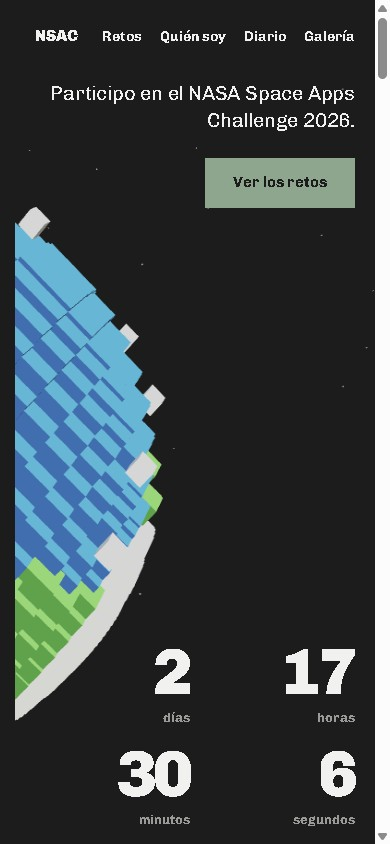
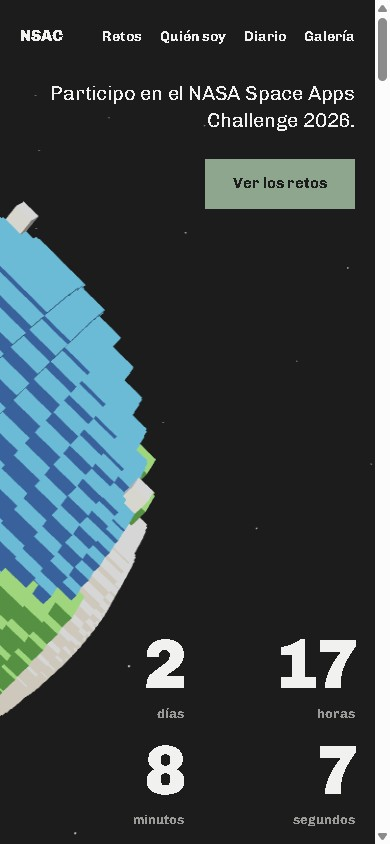
diario: credencial de astronauta generada en la web del evento
Generated with [Devin](https://devin.ai)

diff --git a/docs/log/2026-11-11.md b/docs/log/2026-11-11.md
@@ -40,3 +40,20 @@ tags: [log]
   `twitter:image` con la foto del mural. Primer intento duplicó el
   baseurl (`/NSAC/NSAC/…`) porque `absolute_url` ya lo incluye; se
   resolvió con `site.url | append:` (commit `4a9dd13`).
+
+## Post: credencial del evento
+
+- El usuario compartió su credencial generada en
+  `spaceappssantacruz.web.app/credential` (cargo «astronauta», equipo
+  elay puej). Post `_posts/2026-11-11-credencial-1547.md`, imagen
+  `2026-11-11-6abf6897.jpg` en `diario/` y `galeria/` + entrada en
+  `_data/galeria.yml`.
+- Ojo con la hora: la máquina ya está en UTC-4 (SA Western) = hora de
+  Bolivia. Convertir con «SA Pacific» da una hora menos (es Chile, con
+  DST distinto). Usar la hora local directa.
+- `og-cover.jpg` e `imagen/nsac.jpg` regenerados (390×844 vía Playwright
+  MCP sobre `python -m http.server`; el workspace del MCP es
+  `D:/empresas/Statetty/desarrollo`, ahí caen las capturas). Las
+  descriptions seguían correctas a «2 días y 17 horas».
+- Archivo suelto `acm-align.png` quedó sin trackear en la raíz (no es
+  de esta sesión).

diff --git a/_posts/2026-11-11-credencial-1547.md b/_posts/2026-11-11-credencial-1547.md
@@ -1,0 +1,11 @@
+---
+layout: post
+title: "Credencial de astronauta"
+description: "La organización habilitó un generador de credenciales: entras, subes tus datos y tu foto, imprimes y listo. La mía dice astronauta"
+---
+
+Ya tengo credencial para el evento. La organización habilitó un generador en [spaceappssantacruz.web.app/credential](https://spaceappssantacruz.web.app/credential): entras, pones tus datos, subes una foto y te devuelve la credencial lista para imprimir.
+
+![Mi credencial del NASA Space Apps Challenge 2026: Alejandro Sosa, equipo elay puej, astronauta]({{ '/assets/img/diario/2026-11-11-6abf6897.jpg' | relative_url }})
+
+El cargo que me dieron es «astronauta». Abajo, en letra chica, aclara: participante y explorador de ideas. El diseño trae un astronauta con guitarra, así que combina con el mural que me sirve de foto de equipo mientras llega gente a elay puej.
